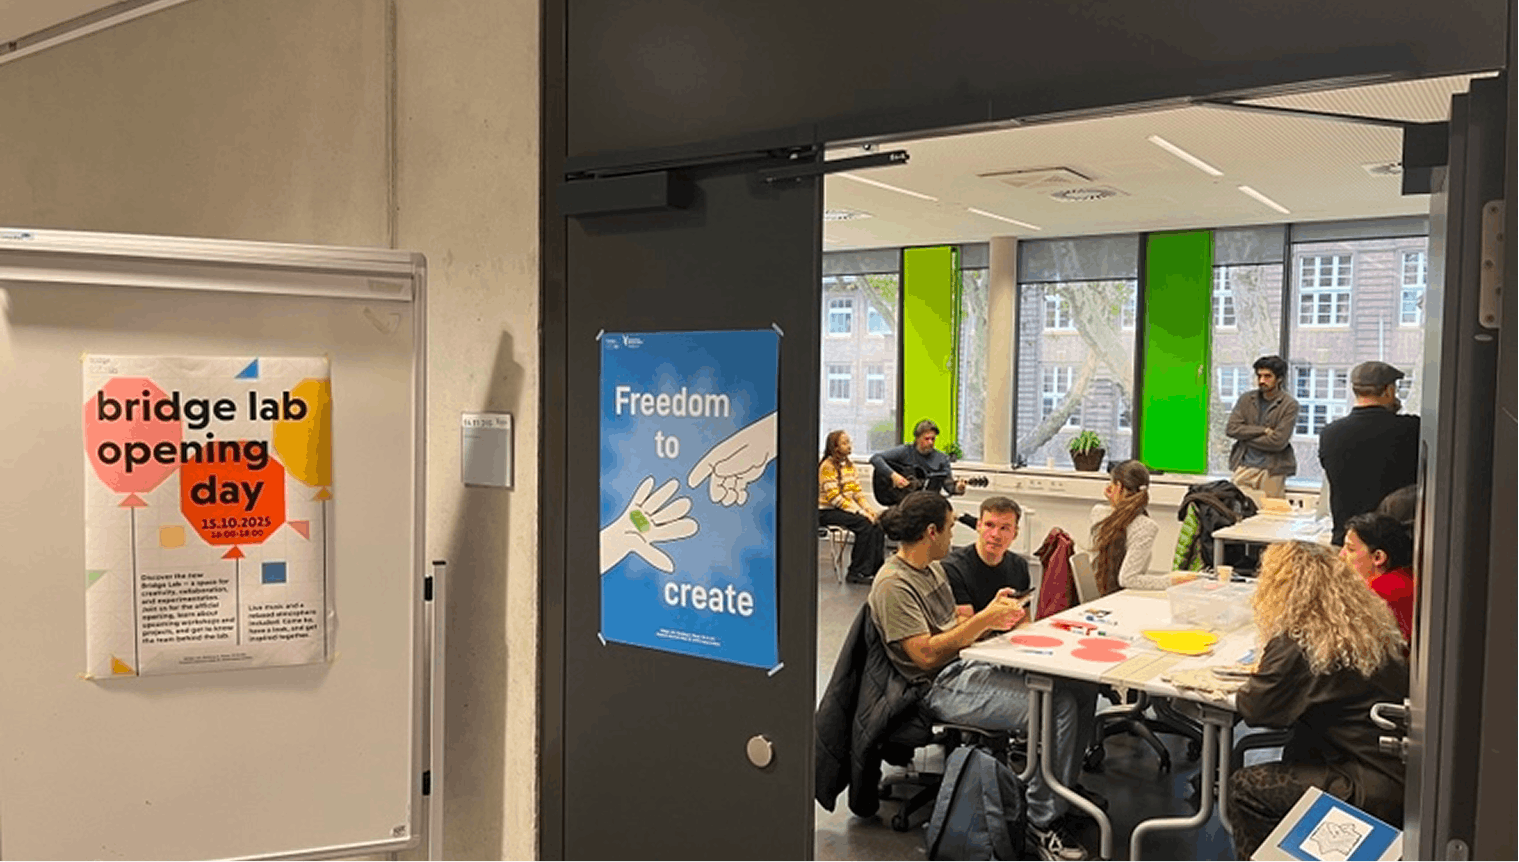
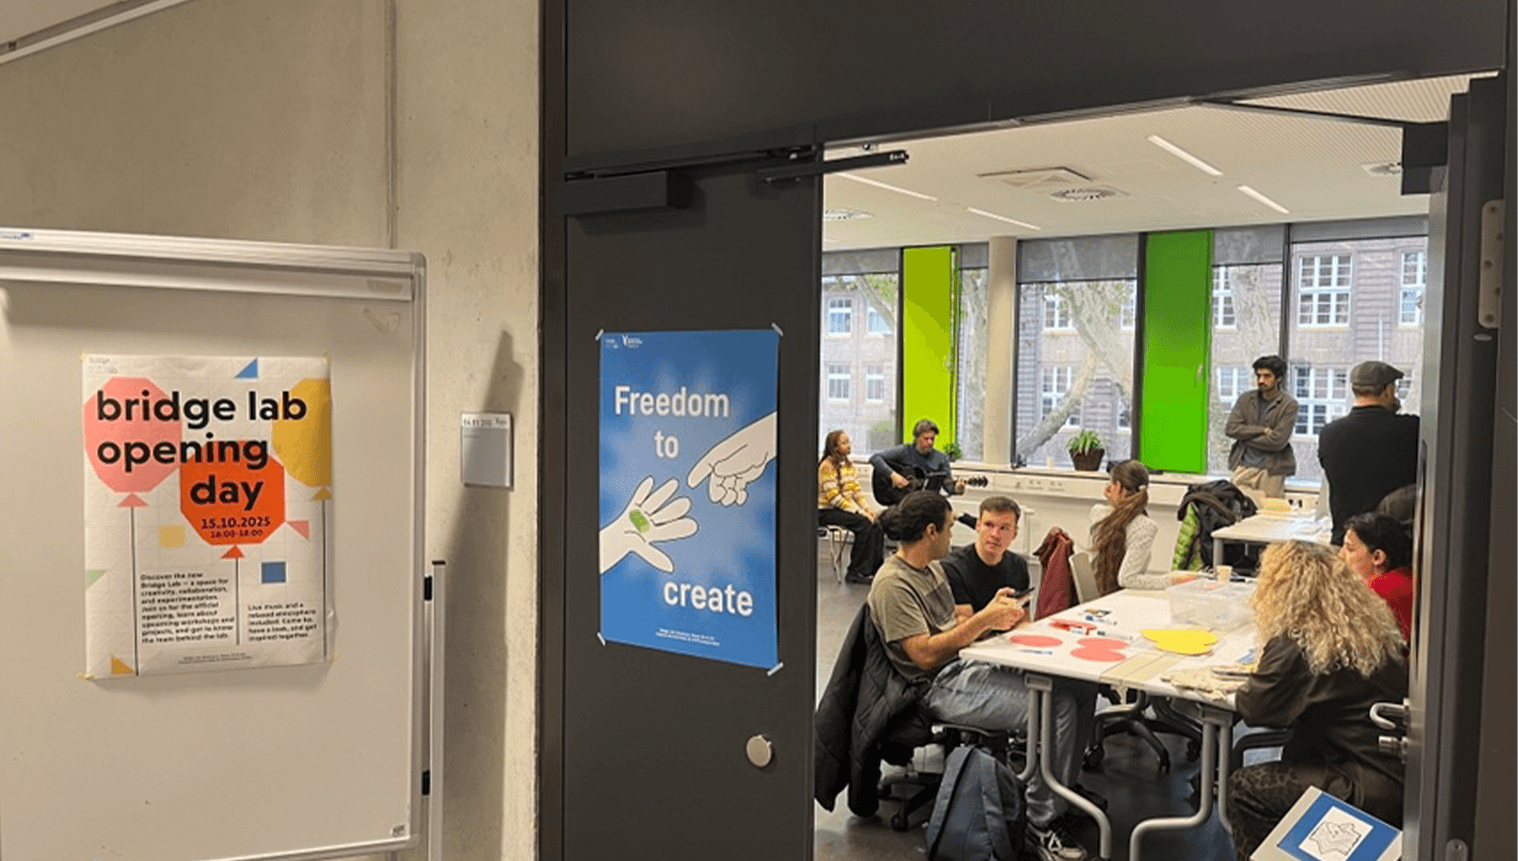
Add new project card to projects page + fixes

diff --git a/index.html b/index.html
@@ -47,7 +47,7 @@
 </nav>
 
 <div id="talking-head" class="container-fluid">
-  <div class="row position-relative dark-bg fs-5 fs-lg-3 almost-white text-center overflow-hidden d-flex justify-content-center ">
+  <div class="row position-relative dark-bg fs-5 fs-lg-3 almost-white text-center overflow-hidden d-flex justify-content-center">
     <p class="position-absolute fw-bold pb-5 click-to-speak">Click to speak</p>
     <div class="position-absolute start-50 w-auto mb-5 mb-lg-0 pb-5 pb-sm-0 ms-lg-5 ps-lg-5 speech-bubble">
       <div id="speech-bubble" class="d-flex flex-column align-items-center d-none">
@@ -108,6 +108,19 @@
 </div>
 
 <div class="row row-cols-1 row-cols-sm-2 row-cols-md-3 m-5 mt-3">
+  <div class="col g-3 gy-5">
+    <div class="card border-0">
+      <a href="/projects/bridgelab" class="resize-link">
+        <div class="card-body p-0">
+          <img src="/media/cards/0-bridgelab.png" class="card-img-top rounded-0"
+               alt="Creative space promotional flyers and cards floating on gray background">
+          <p class="card-title fw-bold mt-1 mb-0">Bridge Lab</p>
+          <p class="card-text muted">Brand Identity | Motion Design | Project Management</p>
+        </div>
+      </a>
+    </div>
+  </div>
+
   <div class="col g-3 gy-5">
     <div class="card border-0">
       <a href="/projects/vending-machine" class="resize-link">
@@ -173,7 +186,7 @@
     </div>
   </div>
 
-  <div class="col g-3 gy-5">
+  <div class="col g-3 gy-5 hidden-card">
     <div class="card border-0">
       <a href="/projects/lavra-dicentis" class="resize-link">
         <div class="card-body p-0">

diff --git a/projects/bridgelab.html b/projects/bridgelab.html
@@ -114,7 +114,7 @@
     </div>
 
     <div class="row row-cols-2 my-3">
-        <div class="col ps-0 pe-2">
+        <div class="col ps-0 pe-2 d-flex align-items-end">
             <img src="/media/projects/bridgelab/4.jpg" class="img-fluid w-100"
                  alt="Activity colour coding for workshops, lectures, meet-ups, and others">
         </div>
